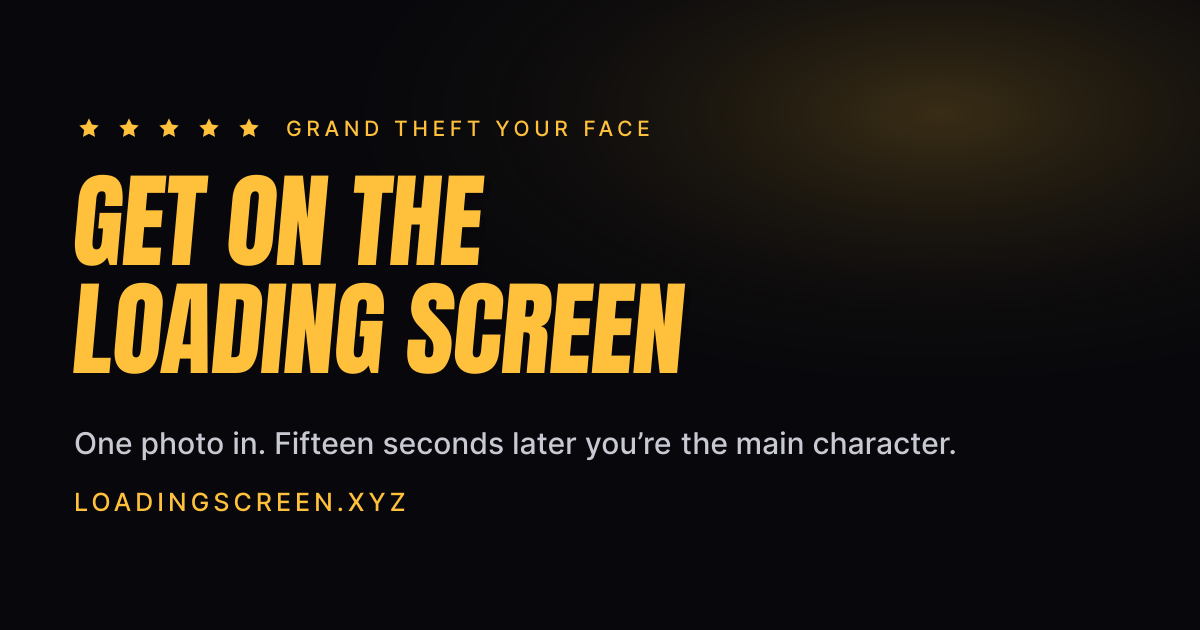
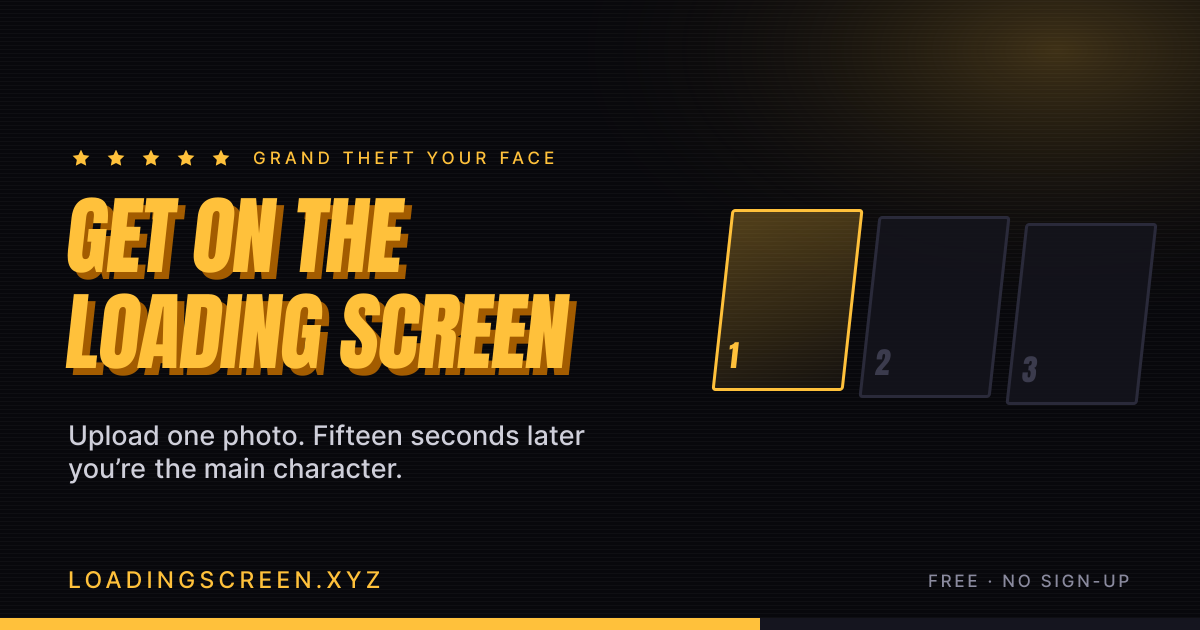
fix(mobile): stop the top bar overflowing the screen, and a real share card
Measured on the live site: the fixed HUD needs 479px of content — five
20px stars (112), the sound toggle (34), the money chip (25) and a 248px
"HELP ME RECOVER MY DOMAIN COST" — on a 390px phone. That is the clutter;
everything else is downstream of it.

The components are written with inline styles, which a media query cannot
override, so the sizes that have to change move into CSS variables and
one @media (max-width: 560px) block shrinks them. Same technique the
palette already uses. At 390px the bar now needs ~350px.

Also down on phones: the headline (11.5vw -> 8.6vw, so it stops eating
half the screen), the page's top padding, the upload card's padding and
icon, and the gap under the headline.

The stars needed style width/height rather than the width attribute —
presentation attributes do not accept var(), so they would not have
shrunk at all.

Share card redrawn in the GTA loading-screen language rather than text on
black: wordmark with a deep-gold offset that actually reads against the
background (the black one was invisible), the three shots filling in,
which is what the product does, and a loading bar along the bottom.

diff --git a/scripts/og-card.tsx b/scripts/og-card.tsx
@@ -16,28 +16,66 @@ import { readFile, writeFile, mkdir } from 'node:fs/promises'
 import { existsSync } from 'node:fs'
 
 const GOLD = '#FFC13B'
+const GOLD_DEEP = '#A35C00'
 const INK = '#08080c'
 const STAR =
   'M12 2.4l2.9 6.1 6.6.9-4.8 4.6 1.2 6.6L12 17.5 6.1 20.6l1.2-6.6L2.5 9.4l6.6-.9z'
 
-/** Satori has no text-stroke, so the wordmark's hard offset shadow is a
- *  second copy of the text sitting behind it in black. */
-function Word({ children, top }: { children: string; top: number }) {
+/**
+ * Satori has no text-stroke, so the wordmark's depth is a second copy of the
+ * text offset behind it. It is deep gold rather than black: a black offset on a
+ * near-black background is invisible, which is why the first card read flat.
+ */
+function Word({ children, size }: { children: string; size: number }) {
   const base = {
+    display: 'flex' as const,
     position: 'absolute' as const,
-    left: 0,
-    top,
     fontFamily: 'Anton',
-    fontSize: 104,
+    fontSize: size,
     lineHeight: 1,
     textTransform: 'uppercase' as const,
-    transform: 'skewX(-5deg)',
-    letterSpacing: '-0.012em',
+    transform: 'skewX(-6deg)',
+    letterSpacing: '-0.015em',
   }
   return (
-    <div style={{ position: 'relative', display: 'flex', height: 108, width: '100%' }}>
-      <div style={{ ...base, left: 6, top: top + 6, color: INK }}>{children}</div>
-      <div style={{ ...base, color: GOLD }}>{children}</div>
+    <div style={{ position: 'relative', display: 'flex', height: size * 1.12, width: '100%' }}>
+      <div style={{ ...base, left: 7, top: 7, color: GOLD_DEEP }}>{children}</div>
+      <div style={{ ...base, left: 0, top: 0, color: GOLD }}>{children}</div>
+    </div>
+  )
+}
+
+/** The three reveals, which is the thing people actually stay for. */
+function Frame({ i, filled }: { i: number; filled: boolean }) {
+  return (
+    <div
+      style={{
+        display: 'flex',
+        alignItems: 'flex-end',
+        justifyContent: 'flex-start',
+        width: 132,
+        height: 182,
+        marginLeft: i === 0 ? 0 : 15,
+        marginTop: i * 14,
+        transform: 'skewX(-6deg)',
+        borderRadius: 4,
+        border: `3px solid ${filled ? GOLD : '#2a2a3a'}`,
+        background: filled
+          ? 'linear-gradient(160deg, rgba(255,193,59,0.30), rgba(255,193,59,0.05))'
+          : 'rgba(20,20,29,0.85)',
+        padding: 10,
+      }}
+    >
+      <div
+        style={{
+          display: 'flex',
+          fontFamily: 'Anton',
+          fontSize: 30,
+          color: filled ? GOLD : '#3b3b4d',
+        }}
+      >
+        {String(i + 1)}
+      </div>
     </div>
   )
 }
@@ -48,55 +86,108 @@ const card = (
       width: 1200,
       height: 630,
       display: 'flex',
-      flexDirection: 'column',
-      justifyContent: 'center',
+      position: 'relative',
       background: INK,
-      backgroundImage: 'radial-gradient(900px 420px at 78% 18%, rgba(255,193,59,0.20), transparent 70%)',
-      padding: '0 74px',
+      backgroundImage:
+        'radial-gradient(760px 420px at 88% 8%, rgba(255,193,59,0.22), transparent 68%),' +
+        'repeating-linear-gradient(0deg, rgba(255,255,255,0.028) 0px, rgba(255,255,255,0.028) 1px, transparent 1px, transparent 4px)',
       color: '#f4f4f6',
-      fontFamily: 'Inter, sans-serif',
+      fontFamily: 'Inter',
     }}
   >
-    <div style={{ display: 'flex', alignItems: 'center', gap: 10, marginBottom: 26 }}>
-      {[0, 1, 2, 3, 4].map((i) => (
-        <svg key={i} width="30" height="30" viewBox="0 0 24 24">
-          <path d={STAR} fill={GOLD} stroke={INK} strokeWidth={1.6} strokeLinejoin="round" />
-        </svg>
-      ))}
-      <div
-        style={{
-          marginLeft: 12,
-          fontSize: 21,
-          fontWeight: 800,
-          letterSpacing: '0.22em',
-          textTransform: 'uppercase',
-          color: GOLD,
-        }}
-      >
-        Grand Theft Your Face
-      </div>
-    </div>
-
-    <Word top={0}>Get on the</Word>
-    <Word top={0}>loading screen</Word>
-
-    <div style={{ display: 'flex', alignItems: 'center', gap: 20, marginTop: 40 }}>
-      <div style={{ fontSize: 30, fontWeight: 500, color: '#c9c9d4' }}>
-        One photo in. Fifteen seconds later you&rsquo;re the main character.
-      </div>
-    </div>
+    {/* left: the pitch */}
     <div
       style={{
         display: 'flex',
-        marginTop: 26,
-        fontSize: 25,
+        flexDirection: 'column',
+        justifyContent: 'center',
+        width: 672,
+        padding: '0 0 0 68px',
+      }}
+    >
+      <div style={{ display: 'flex', alignItems: 'center', gap: 9, marginBottom: 22 }}>
+        {[0, 1, 2, 3, 4].map((i) => (
+          <svg key={i} width="26" height="26" viewBox="0 0 24 24">
+            <path d={STAR} fill={GOLD} stroke={INK} strokeWidth={1.6} strokeLinejoin="round" />
+          </svg>
+        ))}
+        <div
+          style={{
+            display: 'flex',
+            marginLeft: 10,
+            fontSize: 17,
+            fontWeight: 700,
+            letterSpacing: '0.24em',
+            textTransform: 'uppercase',
+            color: GOLD,
+          }}
+        >
+          Grand Theft Your Face
+        </div>
+      </div>
+
+      <Word size={86}>Get on the</Word>
+      <Word size={86}>loading screen</Word>
+
+      <div style={{ display: 'flex', fontSize: 27, fontWeight: 500, color: '#cfcfda', marginTop: 34 }}>
+        Upload one photo. Fifteen seconds later
+      </div>
+      <div style={{ display: 'flex', fontSize: 27, fontWeight: 500, color: '#cfcfda' }}>
+        you&rsquo;re the main character.
+      </div>
+    </div>
+
+    {/* right: three frames filling in, which is what the product does */}
+    <div style={{ display: 'flex', alignItems: 'center', justifyContent: 'center', width: 528, paddingBottom: 30 }}>
+      {[0, 1, 2].map((i) => (
+        <Frame key={i} i={i} filled={i === 0} />
+      ))}
+    </div>
+
+    {/* the loading bar, because that is the joke */}
+    <div
+      style={{
+        position: 'absolute',
+        left: 0,
+        bottom: 0,
+        display: 'flex',
+        width: 1200,
+        height: 12,
+        background: '#15151f',
+      }}
+    >
+      <div style={{ display: 'flex', width: 760, height: 12, background: GOLD }} />
+    </div>
+
+    <div
+      style={{
+        position: 'absolute',
+        left: 68,
+        bottom: 36,
+        display: 'flex',
+        fontSize: 23,
         fontWeight: 800,
-        letterSpacing: '0.16em',
+        letterSpacing: '0.18em',
         textTransform: 'uppercase',
         color: GOLD,
       }}
     >
       loadingscreen.xyz
+    </div>
+    <div
+      style={{
+        position: 'absolute',
+        right: 68,
+        bottom: 38,
+        display: 'flex',
+        fontSize: 17,
+        fontWeight: 700,
+        letterSpacing: '0.16em',
+        textTransform: 'uppercase',
+        color: '#8a8a9e',
+      }}
+    >
+      free · no sign-up
     </div>
   </div>
 )

diff --git a/app/page.tsx b/app/page.tsx
@@ -210,7 +210,7 @@ export default function Page() {
           display: 'flex',
           justifyContent: 'space-between',
           alignItems: 'center',
-          padding: '15px 18px',
+          padding: 'var(--hud-pad-y) var(--hud-pad-x)',
           pointerEvents: 'none',
         }}
       >
@@ -231,7 +231,7 @@ export default function Page() {
           <WantedStars level={phase === 'done' ? 5 : phase === 'working' ? 3 : 1} />
         </a>
 
-        <div style={{ display: 'flex', alignItems: 'center', gap: 14, pointerEvents: 'auto' }}>
+        <div style={{ display: 'flex', alignItems: 'center', gap: 'var(--hud-gap)', pointerEvents: 'auto' }}>
           {phase === 'idle' && (
             <button
               onClick={() => setHeroMuted((m) => !m)}
@@ -239,8 +239,8 @@ export default function Page() {
               aria-pressed={!heroMuted}
               title={heroMuted ? 'Sound on' : 'Sound off'}
               style={{
-                width: 34,
-                height: 34,
+                width: 'var(--hud-btn)',
+                height: 'var(--hud-btn)',
                 display: 'grid',
                 placeItems: 'center',
                 borderRadius: 999,
@@ -273,8 +273,8 @@ export default function Page() {
               transform: 'skewX(-9deg)',
               background: 'var(--gold)',
               color: '#08080c',
-              padding: '7px 13px',
-              fontSize: 10,
+              padding: 'var(--chip-pad)',
+              fontSize: 'var(--chip-fs)',
               fontWeight: 800,
               letterSpacing: '0.1em',
               textTransform: 'uppercase',
@@ -296,7 +296,7 @@ export default function Page() {
           minHeight: '100dvh',
           display: 'grid',
           placeItems: 'center',
-          padding: '62px 16px 50px',
+          padding: 'var(--page-pad-top) 16px 50px',
         }}
       >
         <div style={{ width: '100%', maxWidth: 940, display: 'grid', justifyItems: 'center' }}>
@@ -304,7 +304,7 @@ export default function Page() {
           <header
             style={{
               textAlign: 'center',
-              marginBottom: phase === 'idle' ? 34 : 0,
+              marginBottom: phase === 'idle' ? 'var(--stack-gap)' : 0,
               maxHeight: phase === 'idle' ? 470 : 0,
               opacity: phase === 'idle' ? 1 : 0,
               overflow: 'hidden',
@@ -316,21 +316,21 @@ export default function Page() {
             </div>
             <h1 style={{ margin: 0 }}>
               <span style={{ display: 'block', whiteSpace: 'nowrap' }}>
-                <Pricedown size="clamp(44px, 11.5vw, 104px)" tone="gold" stroke={3.4}>
+                <Pricedown size="var(--h1)" tone="gold" stroke={3.4}>
                   Get on the
                 </Pricedown>
               </span>
               <span style={{ display: 'block', whiteSpace: 'nowrap' }}>
-                <Pricedown size="clamp(44px, 11.5vw, 104px)" tone="gold" stroke={3.4}>
+                <Pricedown size="var(--h1)" tone="gold" stroke={3.4}>
                   loading screen
                 </Pricedown>
               </span>
             </h1>
             <p
               style={{
-                margin: '28px auto 0',
+                margin: '22px auto 0',
                 maxWidth: 410,
-                fontSize: 16,
+                fontSize: 'var(--lede)',
                 fontWeight: 560,
                 lineHeight: 1.5,
                 color: 'var(--ink-soft)',

diff --git a/app/globals.css b/app/globals.css
@@ -31,6 +31,46 @@
 
   --ease: cubic-bezier(0.22, 1, 0.36, 1);
   --morph: 900ms;
+
+  /* Sizes that have to come down on a phone.
+     Measured on the live site: the top HUD needs 479px of content — five 20px
+     stars (112), the sound toggle (34), the money chip (25) and a 248px
+     "HELP ME RECOVER MY DOMAIN COST" — against a 390px screen. Everything below
+     is one token so the mobile block can shrink it without fighting the inline
+     styles the components are written with. */
+  --hud-pad-y: 15px;
+  --hud-pad-x: 18px;
+  --hud-gap: 14px;
+  --star: 20px;
+  --chip-fs: 10px;
+  --chip-pad: 7px 13px;
+  --hud-btn: 34px;
+
+  --h1: clamp(44px, 11.5vw, 104px);
+  --lede: 16px;
+  --page-pad-top: 62px;
+  --card-pad: 30px 26px;
+  --card-icon: 56px;
+  --stack-gap: 34px;
+}
+
+@media (max-width: 560px) {
+  :root {
+    --hud-pad-y: 10px;
+    --hud-pad-x: 11px;
+    --hud-gap: 7px;
+    --star: 13px;
+    --chip-fs: 8.5px;
+    --chip-pad: 6px 8px;
+    --hud-btn: 28px;
+
+    --h1: clamp(30px, 8.6vw, 44px);
+    --lede: 14.5px;
+    --page-pad-top: 50px;
+    --card-pad: 20px 16px;
+    --card-icon: 44px;
+    --stack-gap: 22px;
+  }
 }
 
 * {

diff --git a/app/components/UploadCard.tsx b/app/components/UploadCard.tsx
@@ -101,7 +101,7 @@ export function UploadCard({ onFile, disabled }: Props) {
         style={{
           width: '100%',
           display: 'block',
-          padding: '30px 26px',
+          padding: 'var(--card-pad)',
           transform: over ? 'skewX(-7deg) translate(-3px,-3px)' : 'skewX(-7deg)',
           background: over ? 'var(--accent-soft)' : 'rgba(20,20,29,.82)',
           border: '3px solid var(--accent)',
@@ -117,7 +117,7 @@ export function UploadCard({ onFile, disabled }: Props) {
           <div
             aria-hidden
             style={{
-              width: 56,
+              width: 'var(--card-icon)',
               height: 56,
               margin: '0 auto 16px',
               background: 'var(--accent)',

diff --git a/app/components/Hud.tsx b/app/components/Hud.tsx
@@ -72,11 +72,13 @@ export function WantedStars({ level = 3, max = 5 }: { level?: number; max?: numb
       {Array.from({ length: max }).map((_, i) => (
         <svg
           key={i}
-          width="20"
-          height="20"
           viewBox="0 0 24 24"
           aria-hidden
           style={{
+            // A CSS variable, not a width attribute: presentation attributes do
+            // not accept var(), so the stars would not shrink on a phone.
+            width: 'var(--star)',
+            height: 'var(--star)',
             filter: i < level ? 'drop-shadow(1.5px 1.5px 0 #0B0B0C)' : 'none',
             opacity: i < level ? 1 : 0.22,
           }}
